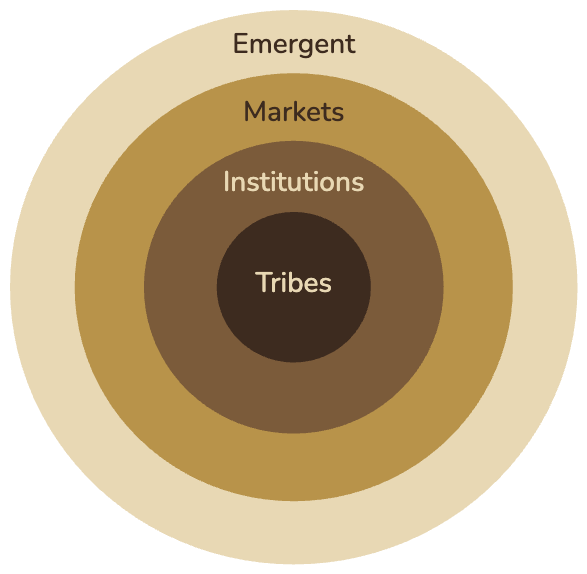
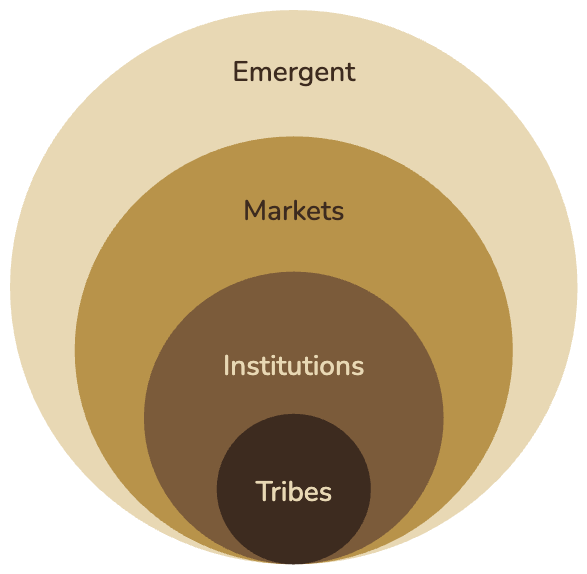
Quartz sync: Sep 8, 2026, 3:09 PM

diff --git a/excalidraw/TIME.excalidraw.md b/excalidraw/TIME.excalidraw.md
@@ -36,38 +36,38 @@ gA451bWmtYBGBKmIChJ1bjmlpLmeZJ4dud215PrqpcPJBEJlaTPN7SbbuYJfY8dZNerJQ7WZTBbiTIoC
 
[1 lines of base64/hex data omitted]
 
[2 lines of base64/hex data omitted]
 
[2 lines of base64/hex data omitted]
 
[2 lines of base64/hex data omitted]
 
[2 lines of base64/hex data omitted]
 
[2 lines of base64/hex data omitted]
 
[2 lines of base64/hex data omitted]
 
[2 lines of base64/hex data omitted]
 
[2 lines of base64/hex data omitted]
 
[2 lines of base64/hex data omitted]
 
[2 lines of base64/hex data omitted]
 
[2 lines of base64/hex data omitted]
 
[2 lines of base64/hex data omitted]
 
[2 lines of base64/hex data omitted]
 
[2 lines of base64/hex data omitted]
 
[2 lines of base64/hex data omitted]
 
[2 lines of base64/hex data omitted]
 
-KN4U3BmCABmEAA==
+3v1nBYjBAGFH4W3BmCABmEAA
 ```
 %%

diff --git a/content/index.md b/content/index.md
@@ -20,13 +20,13 @@ You're in the right place to explore the emerging, parallel BioConomy.
 # What's the Difference Between the Economy and the BioConomy?
 
 
-| The BioConomy is determined by ecology: watershed, soil type, and the culture found within the living system of place. <br><br>Tap on or hover over any term for a definition: | The conventional economy's nesting is set by administrative boundary and ownership. Here we table it next to the BioConomy for easy comparison. <br><br>Tap on any term to see the difference: |
-| ------------------------------------------------------------------------------------------------------------------------------------------------------------------------------ | ---------------------------------------------------------------------------------------------------------------------------------------------------------------------------------------------- |
-| [[bioconomy\|BioConomy]]                                                                                                                                                       | [[global-economy\|Global Economy]]                                                                                                                                                             |
-| [[bioregion\|BioRegion]]                                                                                                                                                       | [[nation-state\|Nation-state]]                                                                                                                                                                 |
-| [[biohub\|BioHub]]                                                                                                                                                             | [[municipality\|Municipality]]                                                                                                                                                                 |
-| [[bioplace\|BioPlace]]                                                                                                                                                         | [[company\|Company]]                                                                                                                                                                           |
-| ![[bioconomy-holons.png]]                                                                                                                                                      | ![[economy-holons.png]]                                                                                                                                                                        |
+| The BioConomy is determined by ecology: watershed, soil type, and the culture found within the living system of place. <br><br>Tap on or hover over any term for a definition: | The conventional economy’s nesting is set by administrative boundaries and ownership. Tabled here for easy comparison. <br><br>Hover over any term to explore the differences: |
+| ------------------------------------------------------------------------------------------------------------------------------------------------------------------------------ | ------------------------------------------------------------------------------------------------------------------------------------------------------------------------------ |
+| [[bioconomy\|BioConomy]]                                                                                                                                                       | [[global-economy\|Global Economy]]                                                                                                                                             |
+| [[bioregion\|BioRegion]]                                                                                                                                                       | [[nation-state\|Nation-state]]                                                                                                                                                 |
+| [[biohub\|BioHub]]                                                                                                                                                             | [[municipality\|Municipality]]                                                                                                                                                 |
+| [[bioplace\|BioPlace]]                                                                                                                                                         | [[company\|Company]]                                                                                                                                                           |
+| ![[bioconomy-holons.png]]                                                                                                                                                      | ![[economy-holons.png]]                                                                                                                                                        |
 
 # Why Now?
 
@@ -44,4 +44,8 @@ The way society has organized itself has evolved over time through four distinct
 
 This wiki exists to provide everything required to operate effectively in the BioConomy.
 
-To learn how to use the wiki, visit [[engage|Three ways to engage with the wiki]]
+To learn how to use the wiki, visit [[engage|Three ways to engage with the wiki]].
+
+## Provenance
+
+Created 07 September 2026 as a simplified diagramatic wiki landing page. Updated 8 September 2026 to balance character count in the Difference table so that images are approximately equal.

diff --git a/excalidraw/TIME-concentric.excalidraw.md b/excalidraw/TIME-concentric.excalidraw.md
@@ -1,0 +1,73 @@
+---
+
+excalidraw-plugin: parsed
+tags: [excalidraw]
+
+---
+==⚠  Switch to EXCALIDRAW VIEW in the MORE OPTIONS menu of this document. ⚠== You can decompress Drawing data with the command palette: 'Decompress current Excalidraw file'. For more info check in plugin settings under 'Saving'
+
+
+# Excalidraw Data
+
+## Text Elements
+Emergent ^U78j9vJL
+
+Markets ^zIqWsPl0
+
+Institutions ^KsDRfrjM
+
+Tribes ^JyNNwD0y
+
+## Element Links
+U78j9vJL: [[e-form-emergent]]
+
+zIqWsPl0: [[m-form-market]]
+
+KsDRfrjM: [[i-form-institutional]]
+
+JyNNwD0y: [[t-form-tribal]]
+
+%%
+## Drawing
+```compressed-json
[1 lines of base64/hex data omitted]
+
[1 lines of base64/hex data omitted]
+
[1 lines of base64/hex data omitted]
+
[1 lines of base64/hex data omitted]
+
[1 lines of base64/hex data omitted]
+
[1 lines of base64/hex data omitted]
+
[1 lines of base64/hex data omitted]
+
[1 lines of base64/hex data omitted]
+
[1 lines of base64/hex data omitted]
+
[1 lines of base64/hex data omitted]
+
[1 lines of base64/hex data omitted]
+
[1 lines of base64/hex data omitted]
+
[1 lines of base64/hex data omitted]
+
[1 lines of base64/hex data omitted]
+
[1 lines of base64/hex data omitted]
+
[1 lines of base64/hex data omitted]
+
[1 lines of base64/hex data omitted]
+
[1 lines of base64/hex data omitted]
+
[1 lines of base64/hex data omitted]
+
+KN4U3BmCABmEAA==
+```
+%%
